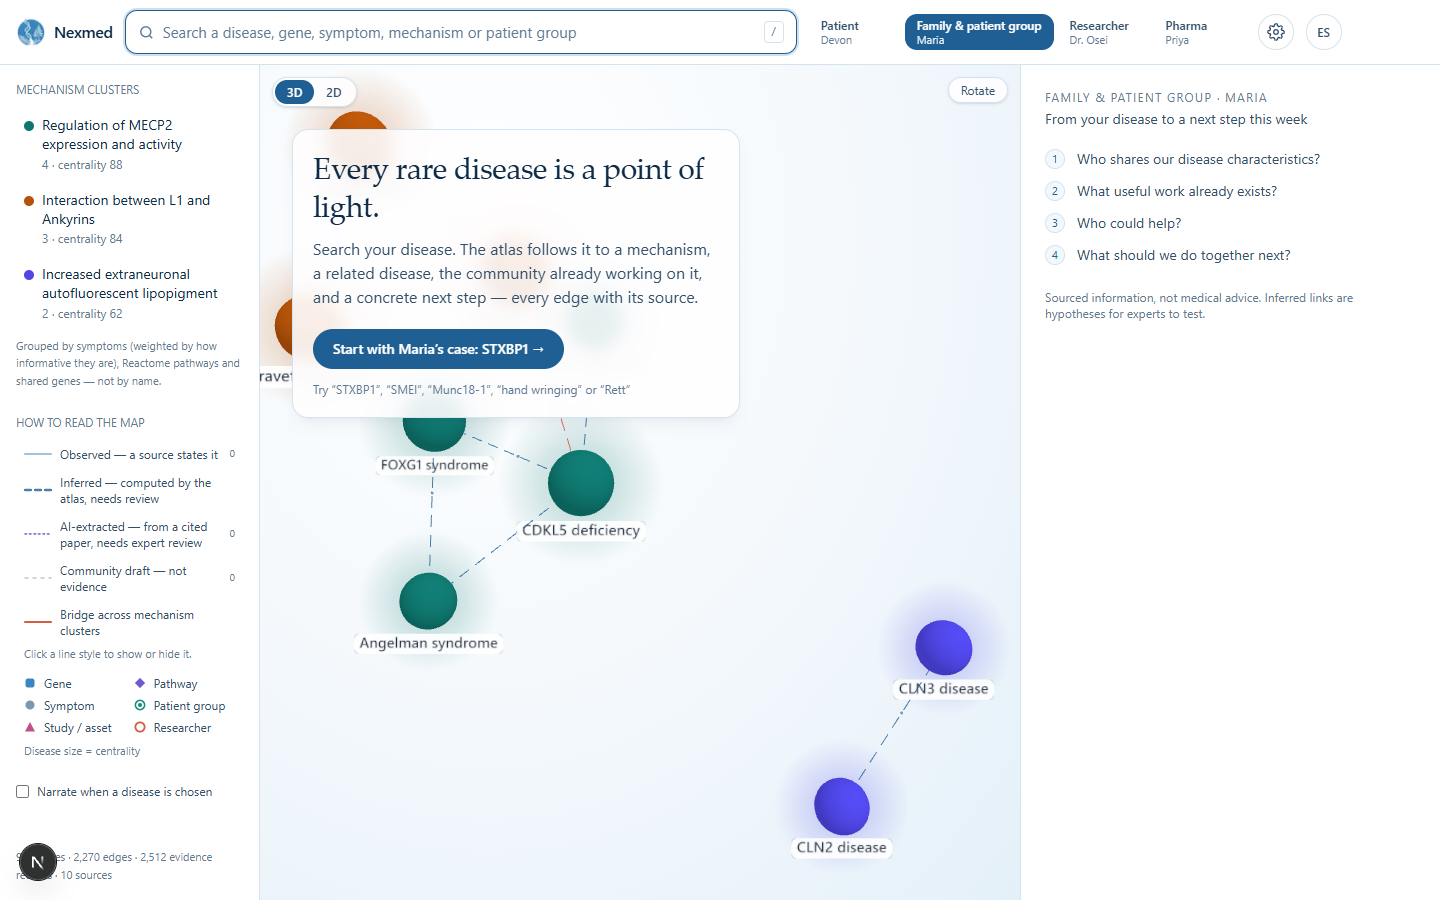
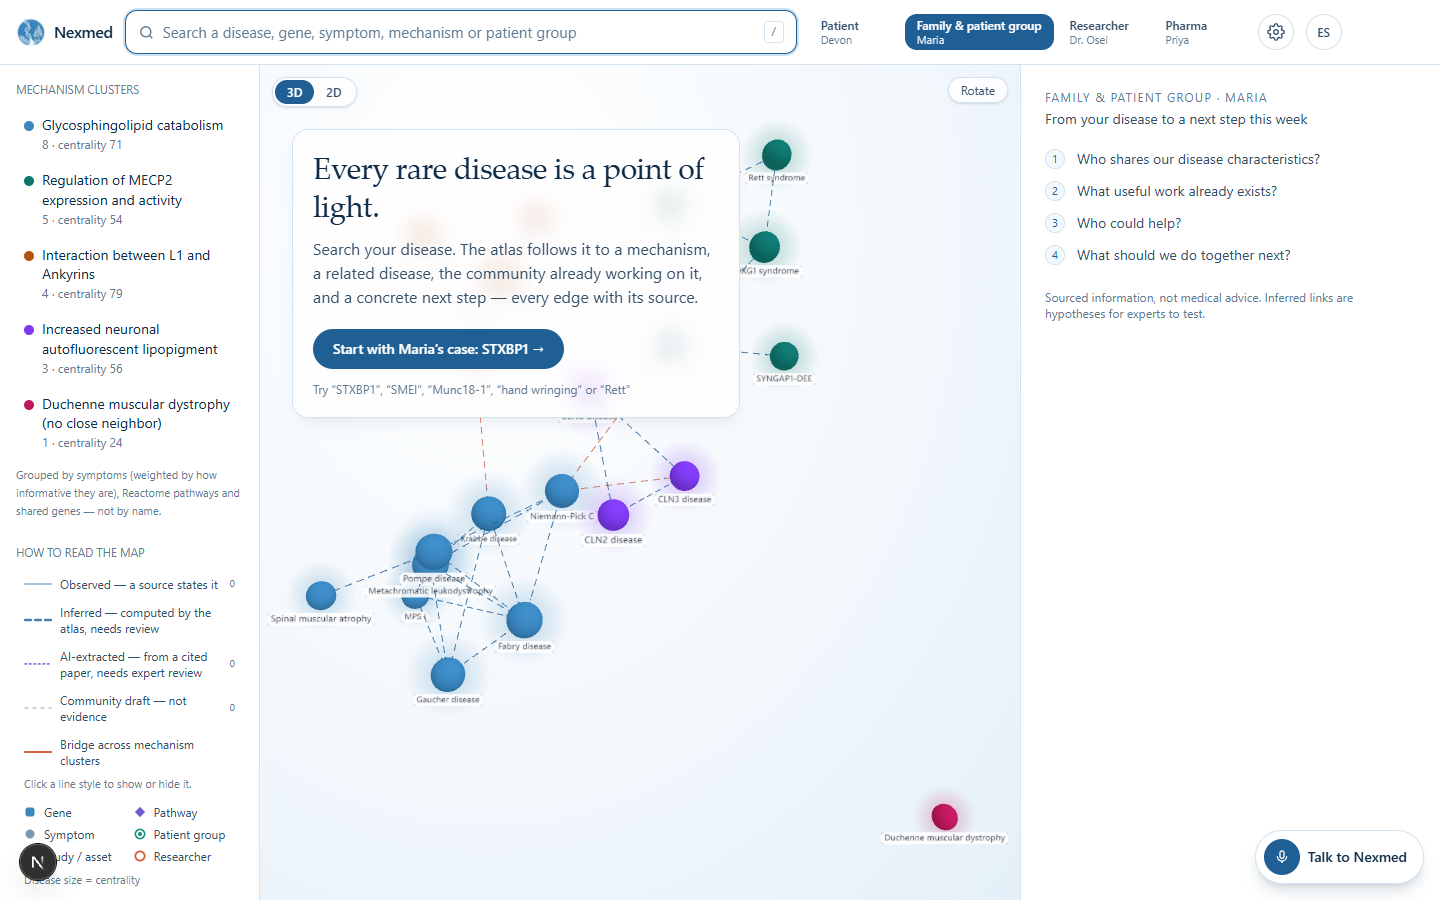
feat(explorer): 3D framing follows the focus and its direct neighbors (21-disease graph); refreshed screenshots

diff --git a/src/components/atlas/GraphCanvas3D.tsx b/src/components/atlas/GraphCanvas3D.tsx
@@ -202,14 +202,14 @@ export default function GraphCanvas3D({ view, highlightNodes, highlightEdges, se
     g.cameraPosition({ x: x * ratio, y: y * ratio, z: z * ratio }, { x, y, z }, ms);
   }, [data]);
 
-  /** With a focus: its connected component (a far-away cluster should not shrink the story). */
+  /** With a focus: the story = the focus, the diseases it links to directly and every non-disease node (genes, pathways,
+   *  groups… all belong to the focus or its neighbors). The rest of the constellation stays visible around it. */
   const focusComponent = useMemo(() => {
     const f = view?.focus; if (!f) return null;
-    const adj = new Map<string, string[]>();
-    for (const l of data.links) { const a = endId(l.source), b = endId(l.target); adj.set(a, [...(adj.get(a) ?? []), b]); adj.set(b, [...(adj.get(b) ?? []), a]); }
-    const seen = new Set([f]); const q = [f];
-    while (q.length) for (const x of adj.get(q.shift()!) ?? []) if (!seen.has(x)) { seen.add(x); q.push(x); }
-    return seen;
+    const set = new Set([f]);
+    for (const n of data.nodes) if (n.type !== "disease") set.add(String(n.id));
+    for (const l of data.links) { const a = endId(l.source), b = endId(l.target); if (a === f) set.add(b); if (b === f) set.add(a); }
+    return set;
   }, [data, view]);
 
   const frameStory = useCallback((ms: number) => frame(focusComponent, ms), [frame, focusComponent]);
